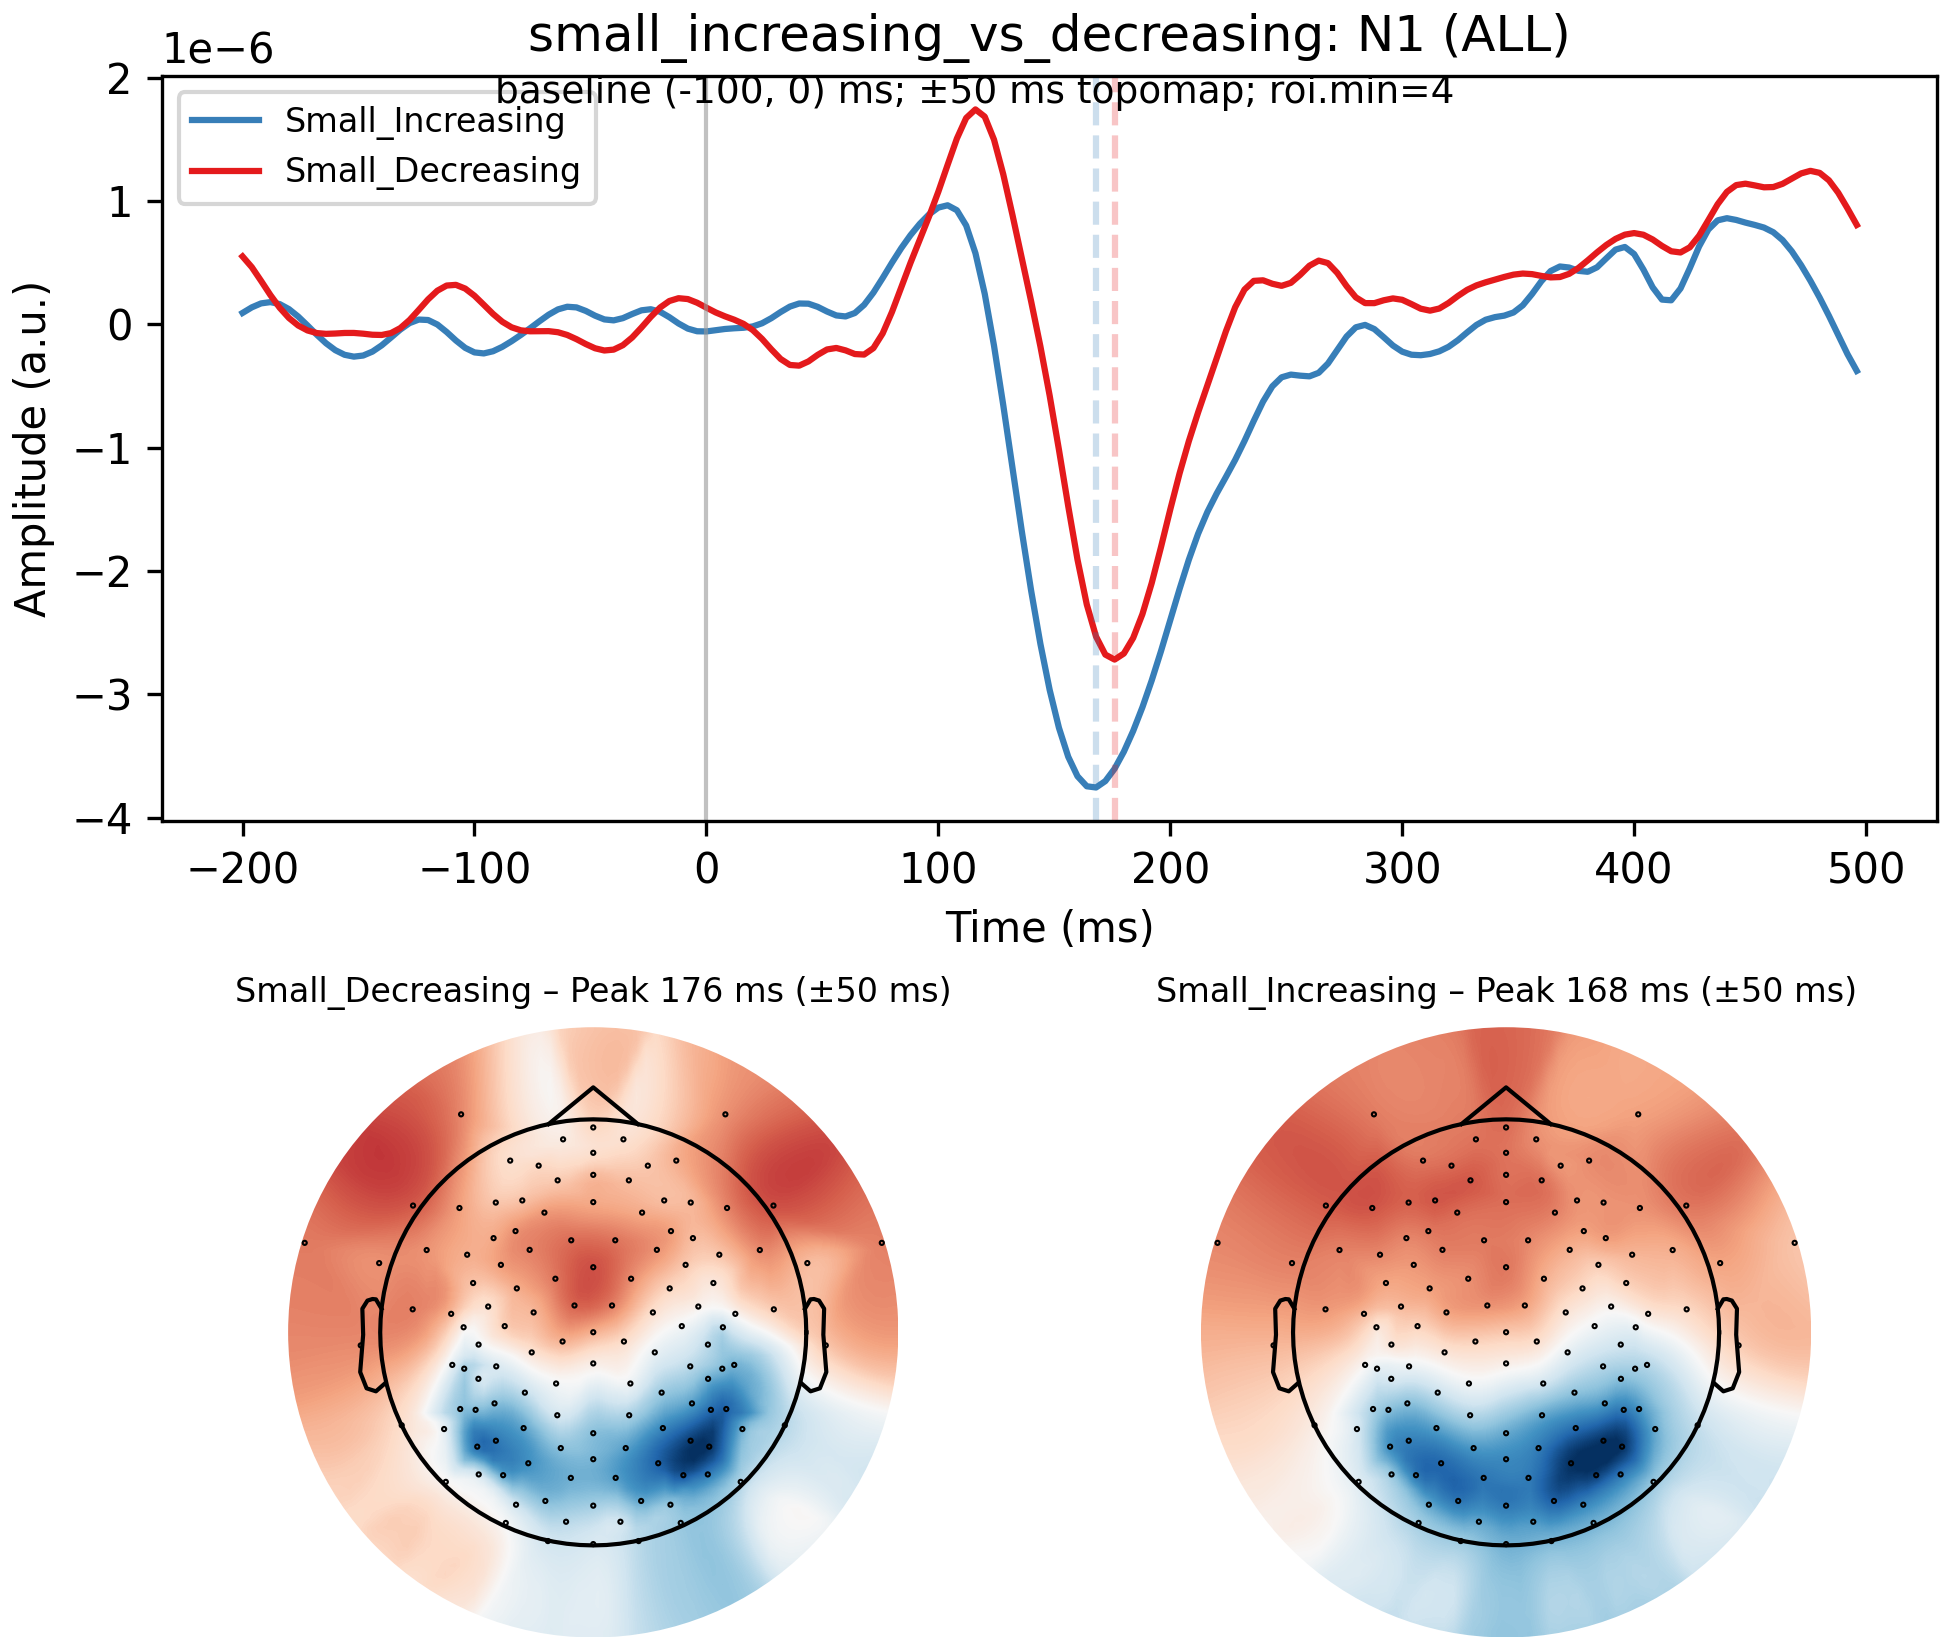
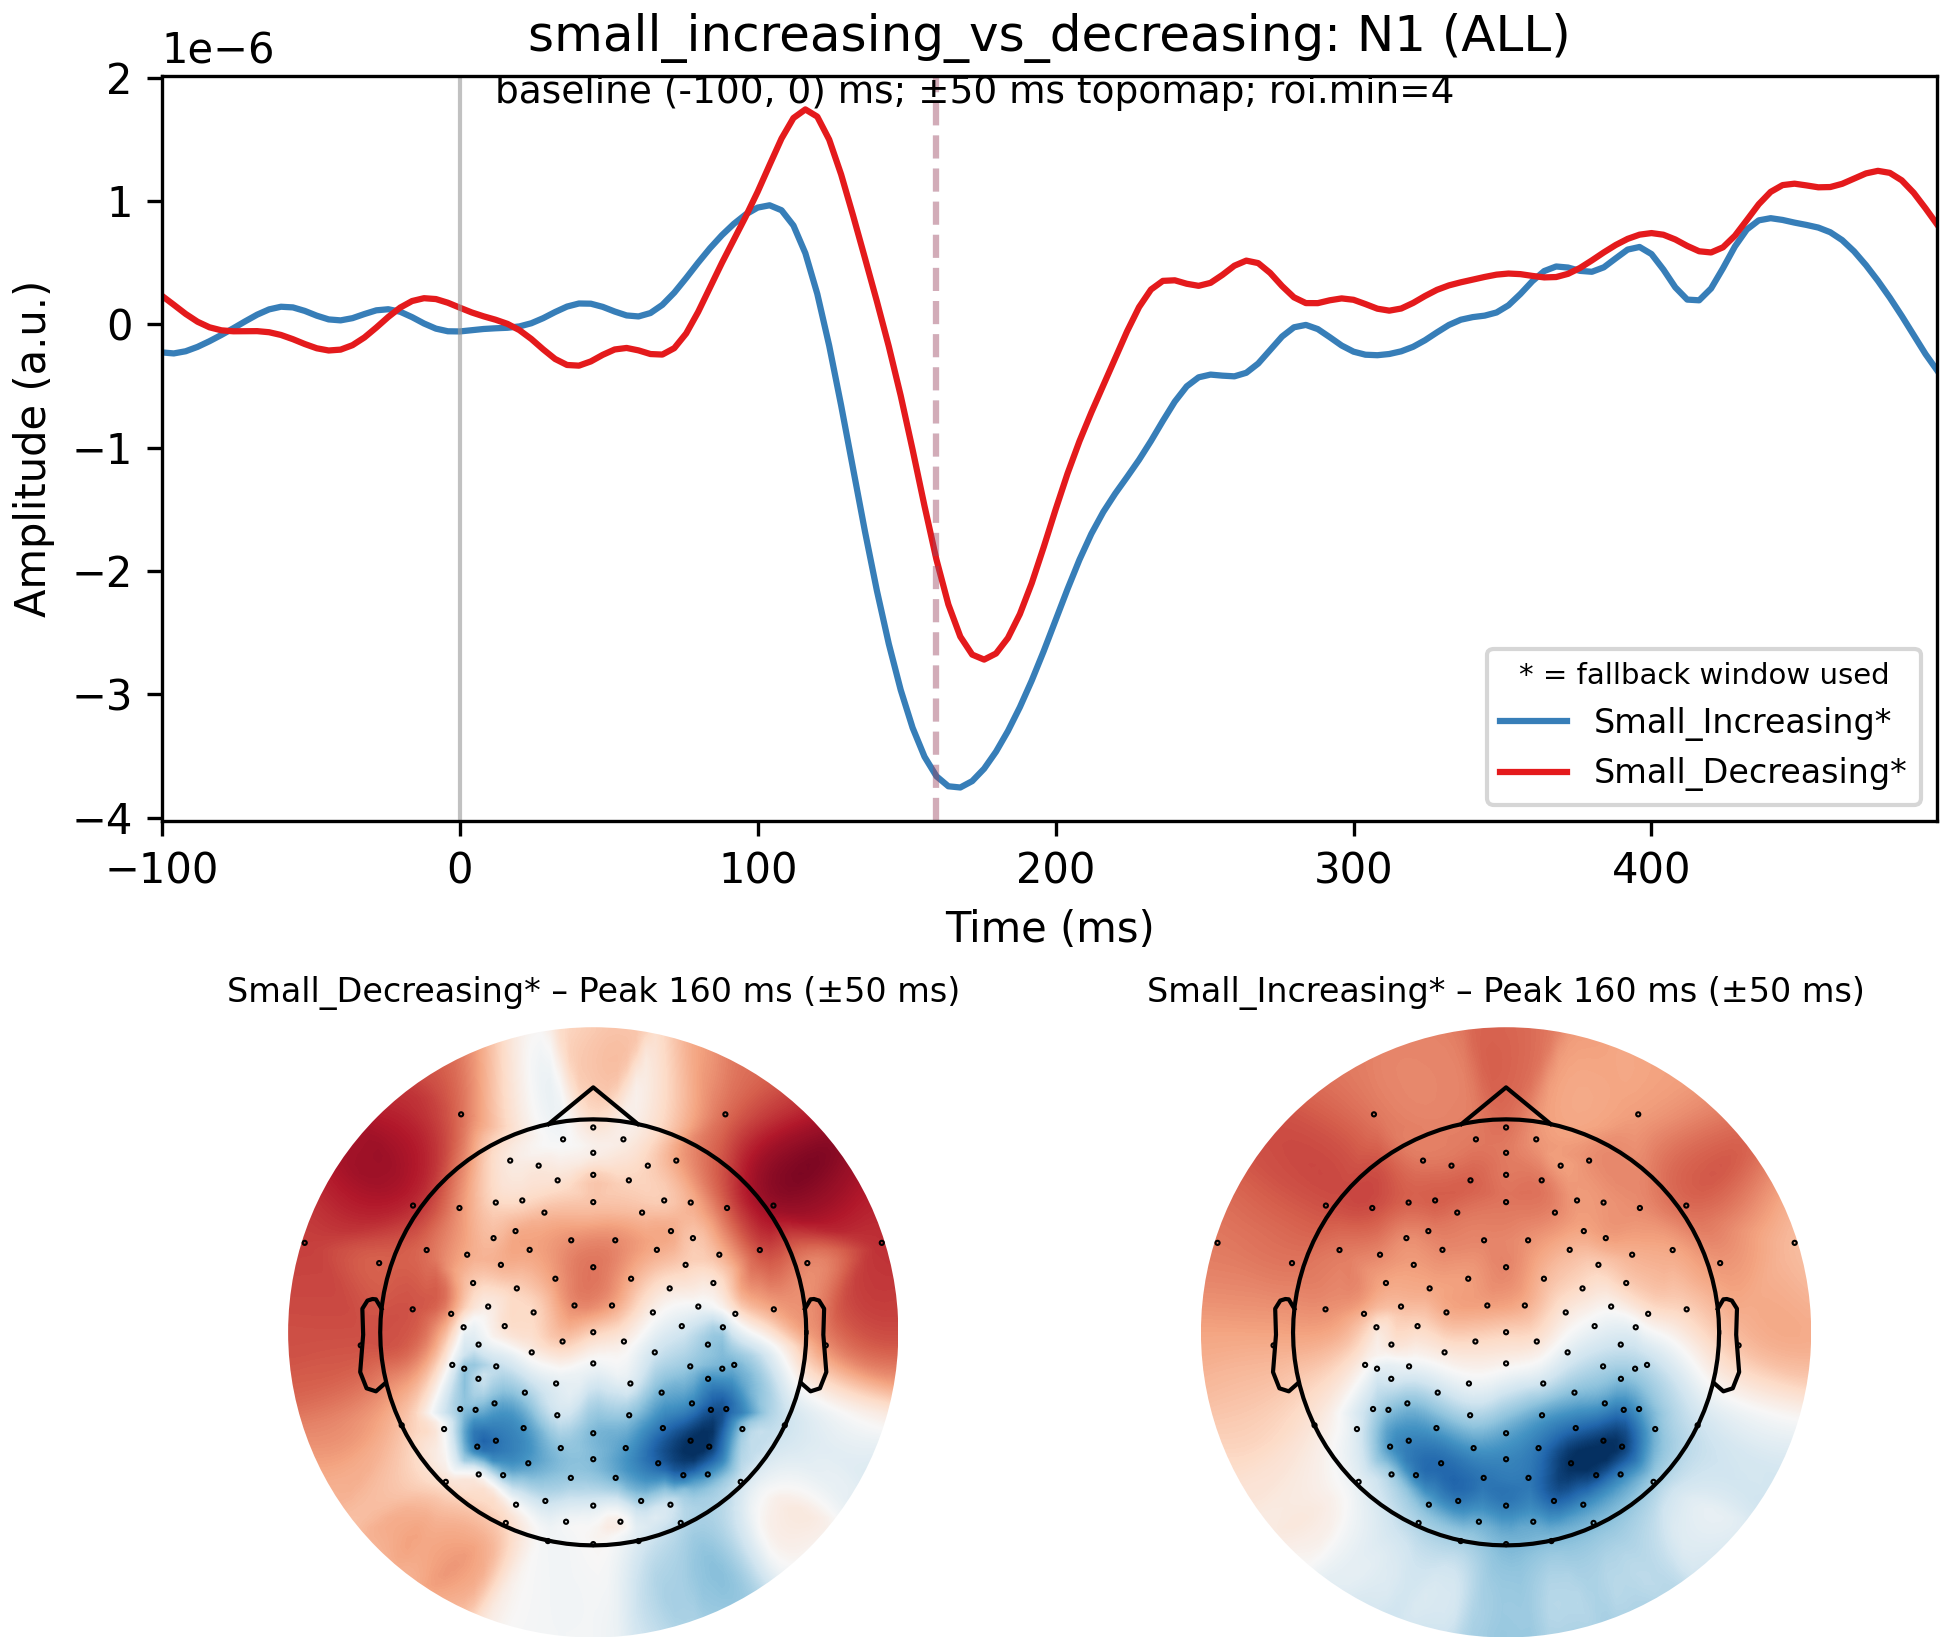
finish

diff --git a/src/eeg/plots.py b/src/eeg/plots.py
@@ -17,7 +17,26 @@ def make_erp_figure(
     annotate_fallback: bool = False,
     colors: Optional[Mapping[str, str]] = None,
     linestyles: Optional[Mapping[str, str]] = None,
+    xlim_ms: Optional[Tuple[float, float]] = None,
 ):
+    """
+    Create an ERP overlay figure.
+
+    Args:
+        curves_by_label: Dict mapping condition name to ERP curve array
+        times_ms: Time points array in milliseconds
+        title: Figure title
+        subtitle: Optional subtitle
+        annotate_fallback: Add fallback annotation text
+        colors: Optional color mapping per condition
+        linestyles: Optional linestyle mapping per condition
+        xlim_ms: Optional (min, max) tuple to limit x-axis display range.
+                 If None, shows full epoch range. If provided (e.g., from baseline_ms),
+                 only shows time range from xlim_ms[0] to end of epoch.
+
+    Returns:
+        matplotlib Figure object
+    """
     fig, ax = plt.subplots(figsize=(6, 3.5), constrained_layout=True)
     for label, y in curves_by_label.items():
         kw = {}
@@ -30,6 +49,11 @@ def make_erp_figure(
     ax.set_xlabel("Time (ms)")
     ax.set_ylabel("Amplitude (a.u.)")
     ax.set_title(title)
+
+    # Set x-axis limits if requested (e.g., start from baseline onset)
+    if xlim_ms is not None:
+        ax.set_xlim(xlim_ms)
+
     # Avoid overlapping text at the top; use figure-level subtitle instead
     if subtitle:
         fig.suptitle(f"\n{subtitle}", fontsize=9, y=0.98)
@@ -48,6 +72,7 @@ def make_component_figure(
     subtitle: Optional[str] = None,
     colors: Optional[Mapping[str, str]] = None,
     linestyles: Optional[Mapping[str, str]] = None,
+    xlim_ms: Optional[Tuple[float, float]] = None,
 ):
     """
     Create a composite figure with ERP overlay (top) and topomaps (bottom).
@@ -63,6 +88,9 @@ def make_component_figure(
         subtitle: Optional subtitle
         colors: Optional color mapping per condition
         linestyles: Optional linestyle mapping per condition
+        xlim_ms: Optional (min, max) tuple to limit x-axis display range.
+                 If None, shows full epoch range. If provided (e.g., from baseline_ms),
+                 only shows time range from xlim_ms[0] to end of epoch.
 
     Returns:
         matplotlib Figure object
@@ -107,6 +135,10 @@ def make_component_figure(
     ax_overlay.set_title(title)
     ax_overlay.set_xlabel("Time (ms)")
     ax_overlay.set_ylabel("Amplitude (a.u.)")
+
+    # Set x-axis limits if requested (e.g., start from baseline onset)
+    if xlim_ms is not None:
+        ax_overlay.set_xlim(xlim_ms)
 
     # Add asterisk note to legend if any fallback used
     legend_title = "* = fallback window used" if any_fallback else None

diff --git a/scripts/run_analysis.py b/scripts/run_analysis.py
@@ -223,6 +223,11 @@ def main() -> int:
                 colors = {label: color_list[i % len(color_list)] for i, label in enumerate(sorted(curves_by_label.keys()))} if color_list else None
                 styles_cfg = cfg.plots.get("linestyles") or {}
                 linestyles = {k: v for k, v in styles_cfg.items()}
+
+                # Set x-axis limits to start from baseline onset (user-configurable)
+                # This makes the plot match the YAML configuration more clearly
+                xlim_ms = (baseline[0], times_ms[-1])  # From baseline start to end of epoch
+
                 fig = make_component_figure(
                     curves_by_label=curves_by_label,
                     times_ms=times_ms,
@@ -232,6 +237,7 @@ def main() -> int:
                     subtitle=f"baseline {baseline} ms; ±{topomap_half_win} ms topomap; roi.min={roi_min}",
                     colors=colors,
                     linestyles=linestyles,
+                    xlim_ms=xlim_ms,
                 )
                 out_path = os.path.join(plots_dir, f"{comp}.png")
                 fig.savefig(out_path, dpi=int(cfg.plots.get("dpi", 150)))

diff --git a/docs/index.md b/docs/index.md
@@ -11,7 +11,7 @@
 <tr><td>small_increasing_vs_decreasing</td><td><a href='assets/plots/small_increasing_vs_decreasing/P1.png' data-lightbox aria-label='ERP overlay for P1 in small_increasing_vs_decreasing'><img class='thumb' src='assets/plots/small_increasing_vs_decreasing/P1.png' alt='ERP overlay for P1 in small_increasing_vs_decreasing' /></a></td><td><a href='assets/plots/small_increasing_vs_decreasing/N1.png' data-lightbox aria-label='ERP overlay for N1 in small_increasing_vs_decreasing'><img class='thumb' src='assets/plots/small_increasing_vs_decreasing/N1.png' alt='ERP overlay for N1 in small_increasing_vs_decreasing' /></a></td><td><a href='assets/plots/small_increasing_vs_decreasing/P3b.png' data-lightbox aria-label='ERP overlay for P3b in small_increasing_vs_decreasing'><img class='thumb' src='assets/plots/small_increasing_vs_decreasing/P3b.png' alt='ERP overlay for P3b in small_increasing_vs_decreasing' /></a></td></tr>
 <tr><td>small_increasing_vs_decreasing_ACC1</td><td><a href='assets/plots/small_increasing_vs_decreasing_ACC1/P1.png' data-lightbox aria-label='ERP overlay for P1 in small_increasing_vs_decreasing_ACC1'><img class='thumb' src='assets/plots/small_increasing_vs_decreasing_ACC1/P1.png' alt='ERP overlay for P1 in small_increasing_vs_decreasing_ACC1' /></a></td><td><a href='assets/plots/small_increasing_vs_decreasing_ACC1/N1.png' data-lightbox aria-label='ERP overlay for N1 in small_increasing_vs_decreasing_ACC1'><img class='thumb' src='assets/plots/small_increasing_vs_decreasing_ACC1/N1.png' alt='ERP overlay for N1 in small_increasing_vs_decreasing_ACC1' /></a></td><td><a href='assets/plots/small_increasing_vs_decreasing_ACC1/P3b.png' data-lightbox aria-label='ERP overlay for P3b in small_increasing_vs_decreasing_ACC1'><img class='thumb' src='assets/plots/small_increasing_vs_decreasing_ACC1/P3b.png' alt='ERP overlay for P3b in small_increasing_vs_decreasing_ACC1' /></a></td></tr>
 <tr><th>Analysis</th><th>P1</th><th>N1</th><th>P3b</th></tr>
-<tr><td>sample_smoke</td><td><a href='assets/plots/sample_smoke/P1_overlay.png' data-lightbox aria-label='ERP overlay for P1 in sample_smoke'><img class='thumb' src='assets/plots/sample_smoke/P1_overlay.png' alt='ERP overlay for P1 in sample_smoke' /></a></td><td></td><td></td></tr>
+<tr><td>small_increasing_vs_decreasing</td><td><a href='assets/plots/small_increasing_vs_decreasing/P1.png' data-lightbox aria-label='ERP overlay for P1 in small_increasing_vs_decreasing'><img class='thumb' src='assets/plots/small_increasing_vs_decreasing/P1.png' alt='ERP overlay for P1 in small_increasing_vs_decreasing' /></a></td><td><a href='assets/plots/small_increasing_vs_decreasing/N1.png' data-lightbox aria-label='ERP overlay for N1 in small_increasing_vs_decreasing'><img class='thumb' src='assets/plots/small_increasing_vs_decreasing/N1.png' alt='ERP overlay for N1 in small_increasing_vs_decreasing' /></a></td><td><a href='assets/plots/small_increasing_vs_decreasing/P3b.png' data-lightbox aria-label='ERP overlay for P3b in small_increasing_vs_decreasing'><img class='thumb' src='assets/plots/small_increasing_vs_decreasing/P3b.png' alt='ERP overlay for P3b in small_increasing_vs_decreasing' /></a></td></tr>
 </tbody>
 </table>
 <!-- AUTO-GENERATED END -->
